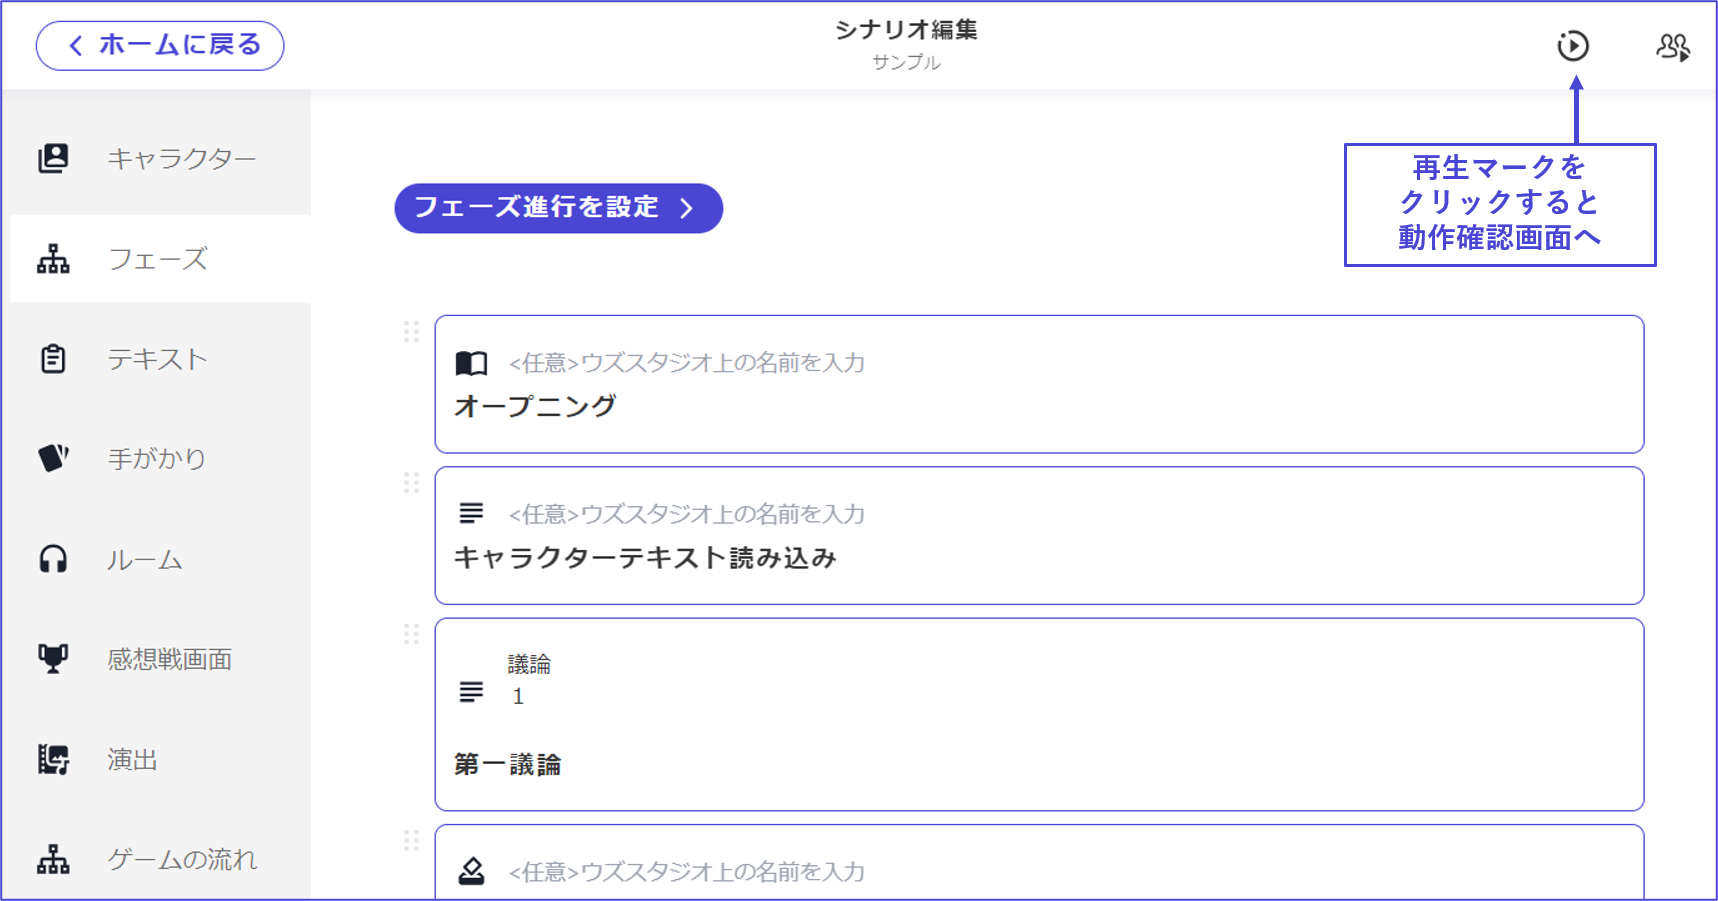
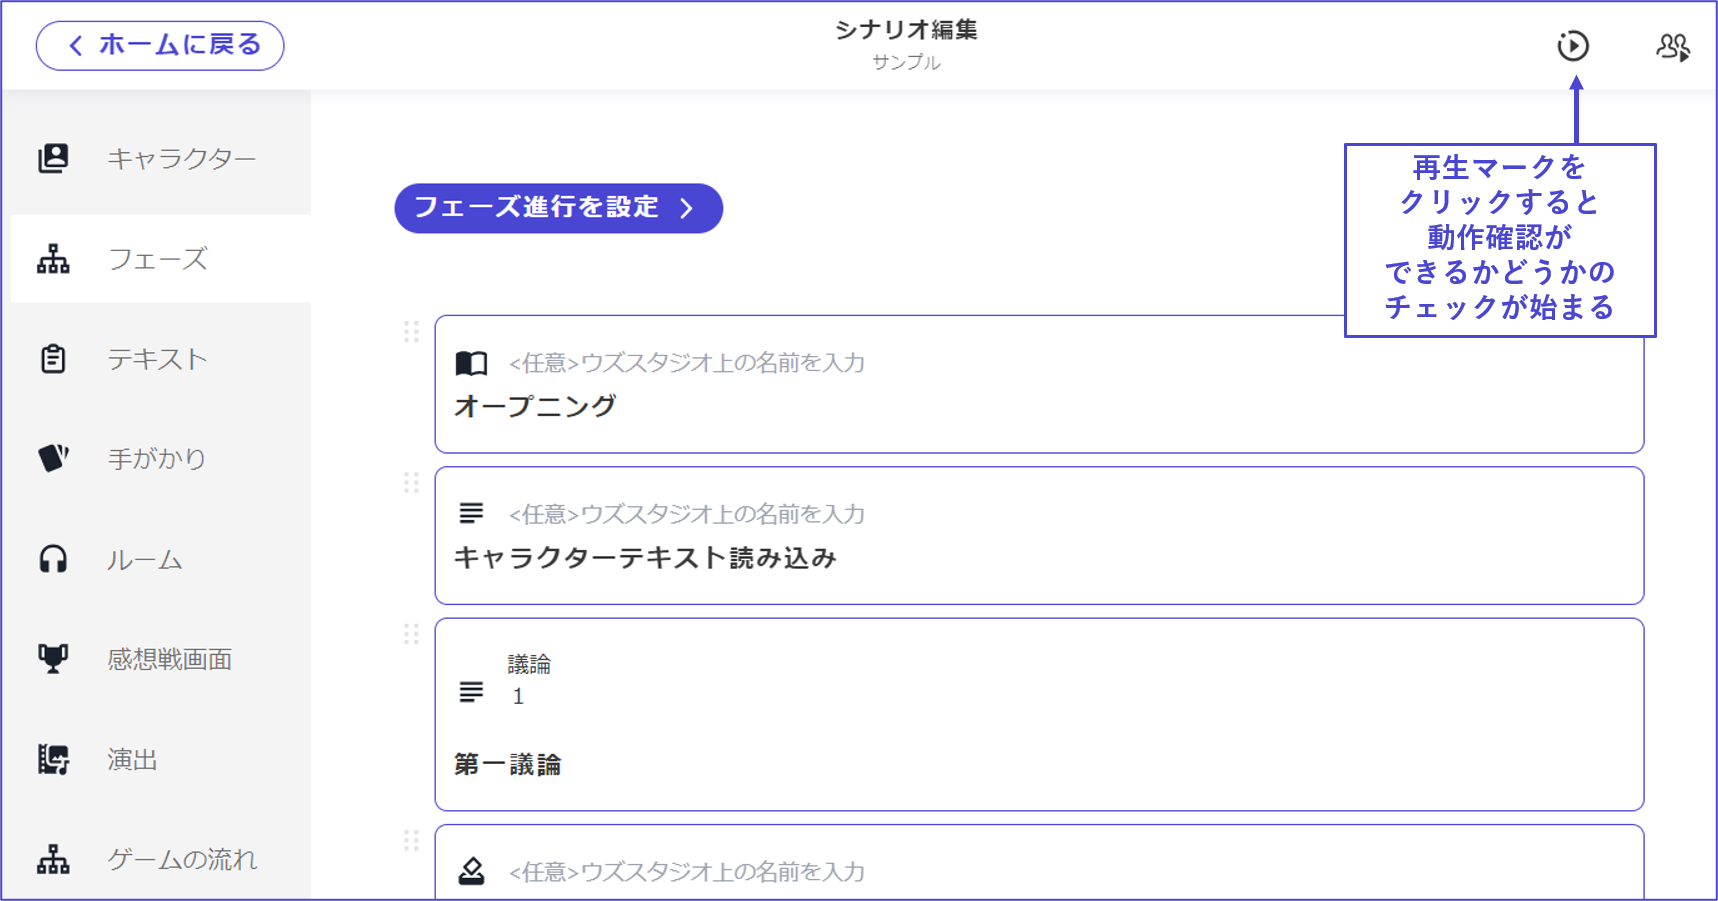
demo

Changed region(s): [[0.7712, 0.2486, 0.9563, 0.3729]]

diff --git a/overview/demo.md b/overview/demo.md
@@ -2,19 +2,23 @@
 
 実際のアプリでテストプレイをする前に、ウズスタジオ上で動作確認を実施することができます。
 
-エディター画面の右上の「再生ボタン」をクリックすると、動作確認用の画面に移動します。
+エディター画面の右上の「再生ボタン」をクリックすると、動作確認ができるかどうかのチェックが自動でおこなわれます。
 
 ![](../images/demo1.png)
 
 <br>
 
-「動作確認出来るか確認」をクリックすると、設定漏れがないかのチェックが自動で行われます。
+設定漏れがある場合は、**未設定箇所が表示**されるので、適宜修正してください。
 
-設定漏れがある場合は、**未設定箇所が赤文字で表示**されるので、適宜修正してください。
-
-全て設定できている場合は「**動作確認を行う**」が表示されるので、クリックしてください。
+「**該当箇所へ**」をクリックすると、エラーが出ている場所へ直接飛ぶことができます。
 
 ![](../images/demo2.png)
+
+<br>
+
+全て設定できている場合は、画面が切り替わり「**動作確認を行う**」が表示されるので、クリックしてください。
+
+![](../images/demo4.png)
 
 <br>
 
